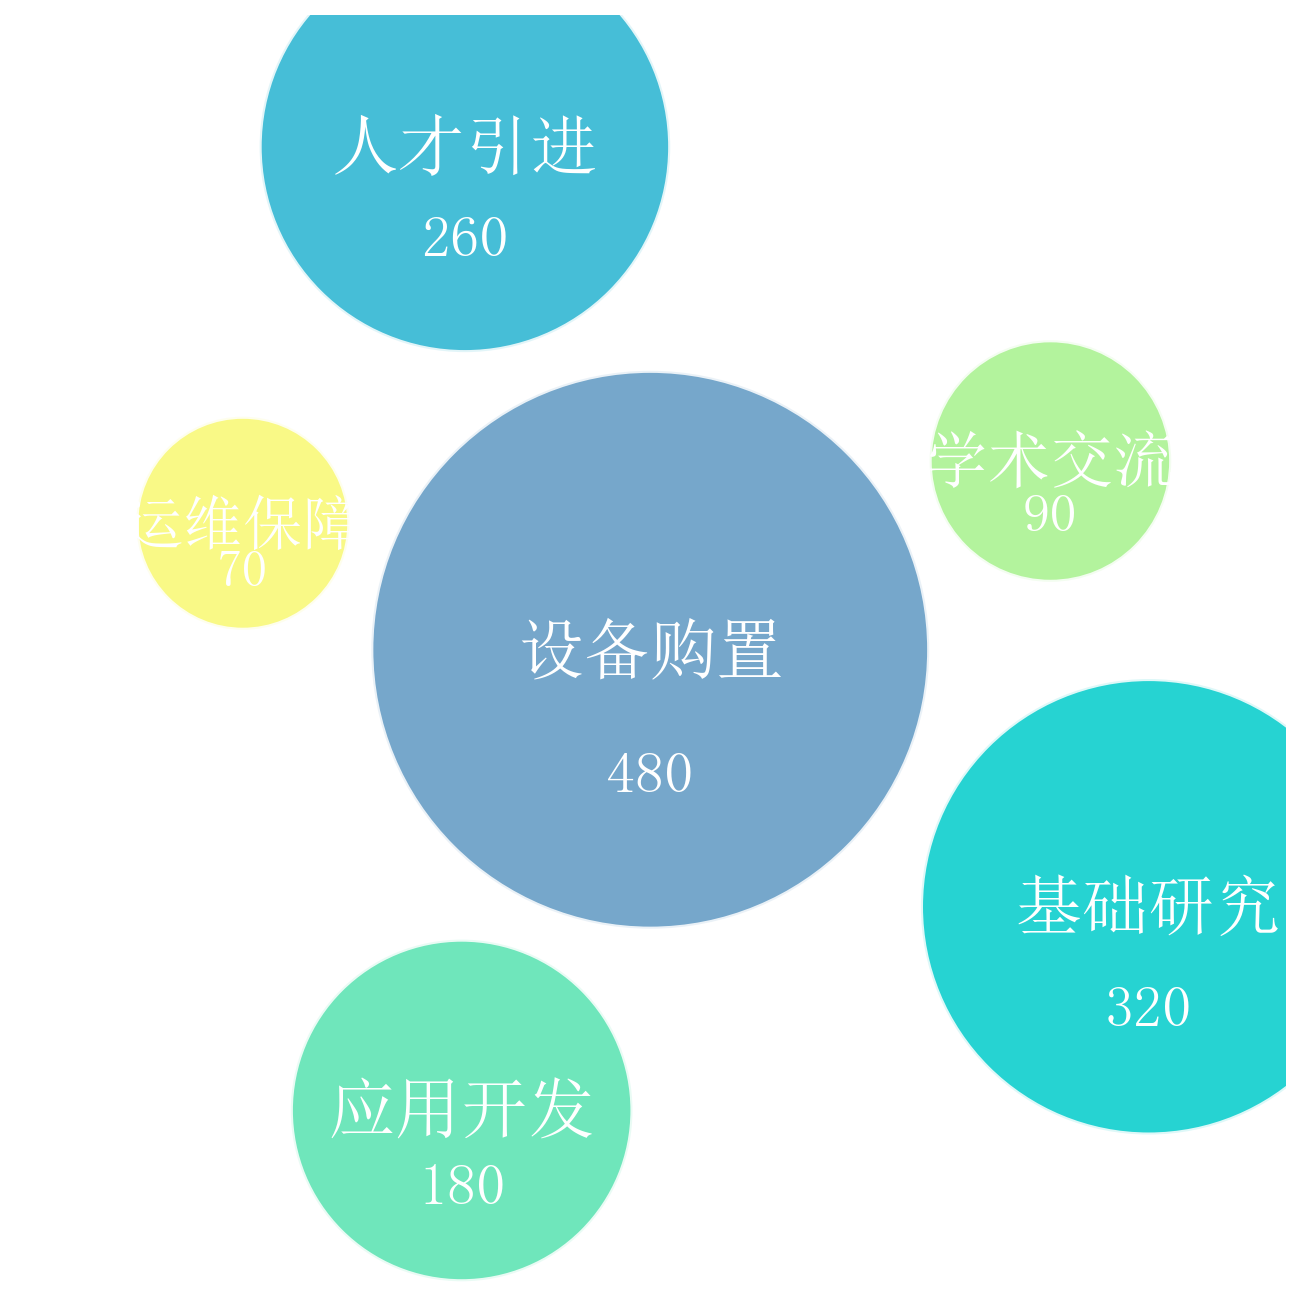
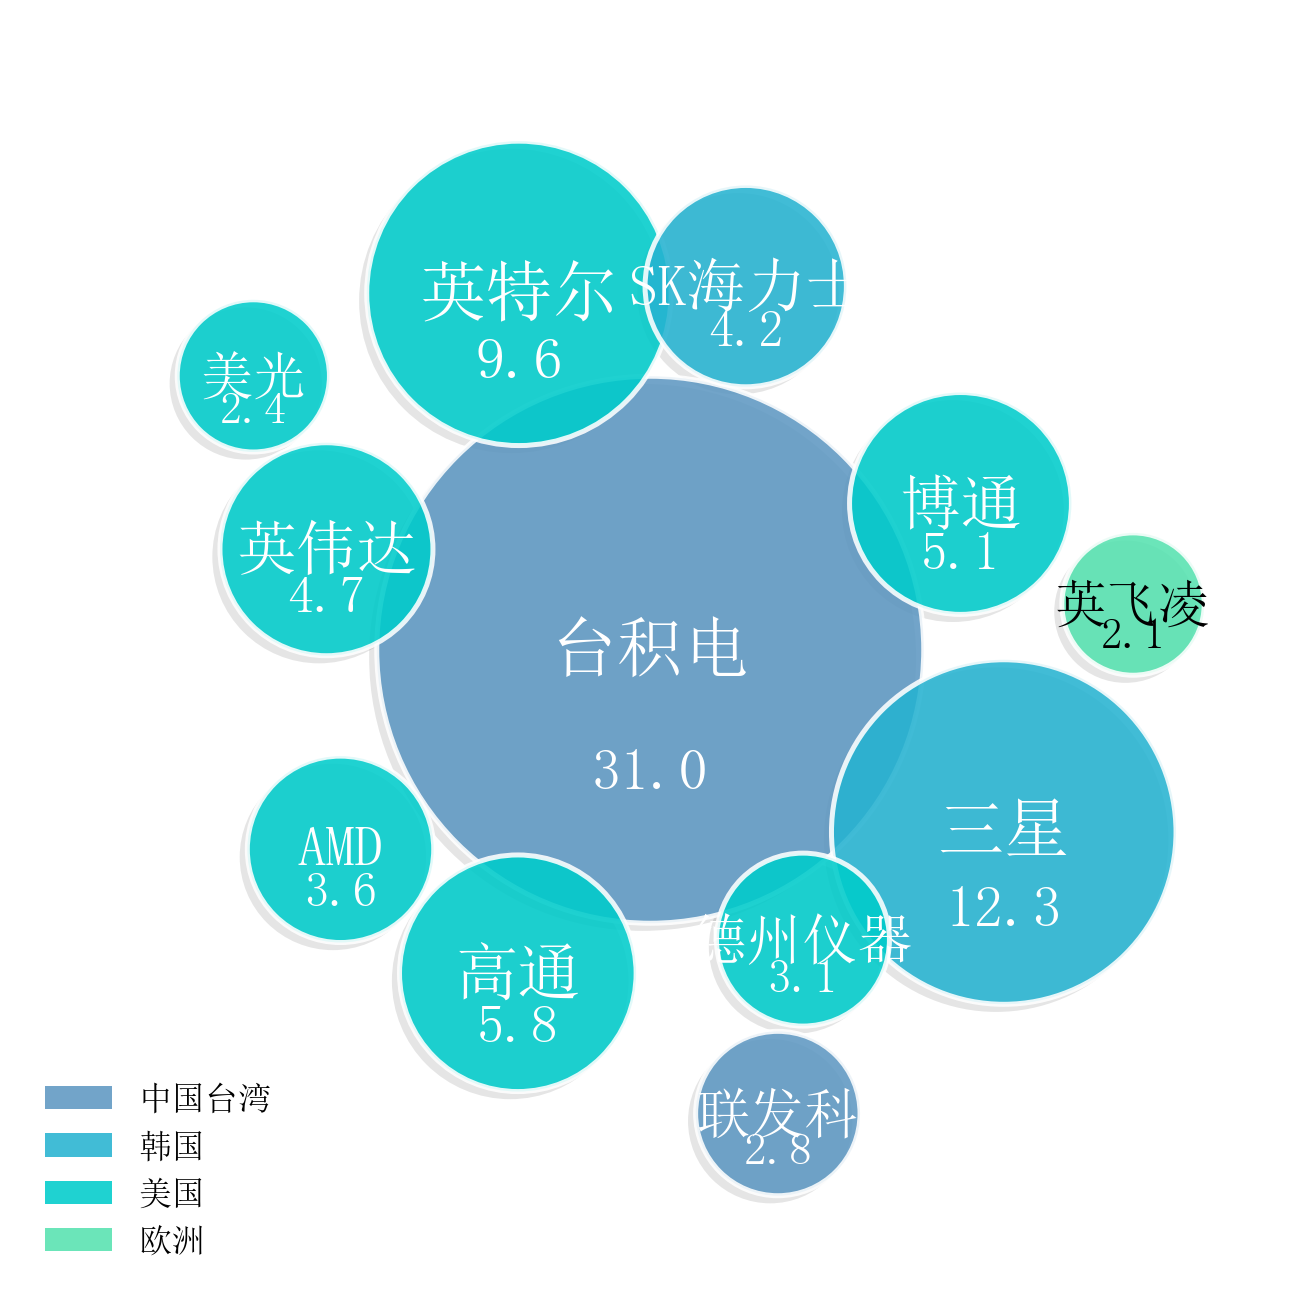
feat(bubble): 打包气泡升级 - color_by分组+图例/阴影层次/文字自动对比色/min_size_frac小泡可见

diff --git a/sciplot/_plots/advanced.py b/sciplot/_plots/advanced.py
@@ -451,14 +451,22 @@ def plot_bubble_heatmap(
     return PlotResult(fig, ax, metadata={"venue": venue, "palette": palette})
 
 
-def _pack_bubbles(sizes: np.ndarray, max_tries: int = 3000) -> Tuple[np.ndarray, np.ndarray]:
+def _pack_bubbles(
+    sizes: np.ndarray,
+    max_tries: int = 3000,
+    min_size_frac: float = 0.22,
+) -> Tuple[np.ndarray, np.ndarray]:
     """贪心圆形打包：按大小降序，沿黄金角螺旋放置并检测碰撞。
 
     返回 (positions, radii)，位置已归一化到 [-1, 1] 区间。
+    min_size_frac 保证最小气泡可见（相对最大气泡的半径下限）。
     """
     n = len(sizes)
     order = np.argsort(sizes)[::-1]
     radii = np.sqrt(sizes / float(np.max(sizes)))
+    # 小气泡半径下限：避免跨数量级数据时小类完全不可见
+    min_r = float(radii.max()) * min_size_frac
+    radii = np.maximum(radii, min_r)
 
     # 面积和决定整体尺度：让打包区域大致落在单位圆内
     total_area = float(np.sum(np.pi * radii**2))
@@ -507,14 +515,16 @@ def plot_packed_bubble(
     labels: List[str],
     sizes: np.ndarray,
     colors: Optional[List[str]] = None,
+    color_by: Optional[List[str]] = None,
     xlabel: str = "",
     ylabel: str = "",
     title: str = "",
-    alpha: float = 0.85,
+    alpha: float = 0.88,
     show_values: bool = True,
     fmt: str = ".0f",
     min_font: float = 6.0,
     max_font: float = 16.0,
+    min_size_frac: float = 0.22,
     venue: Optional[str] = None,
     palette: Optional[str] = None,
     lang: Optional[str] = None,
@@ -524,20 +534,23 @@ def plot_packed_bubble(
     绘制打包气泡图（Packed Bubble，圆面积编码数值的紧凑占比展示）
 
     圆形面积与数值成正比，按大小降序贪心打包（黄金角螺旋 + 碰撞检测），
-    适合展示占比/规模构成（如经费分配、品类份额）。
+    气泡带浅阴影与白色描边；文字依据底色亮度自动选黑/白保证对比度。
 
     参数:
-        labels     : 各项标签（等长）
-        sizes      : 各项数值（等长，>0）
-        colors     : 每项颜色；None 用当前配色循环
-        show_values: 是否在气泡内显示数值
-        fmt        : 数值格式
+        labels      : 各项标签（等长）
+        sizes       : 各项数值（等长，>0）
+        colors      : 每项颜色；None 用当前配色循环
+        color_by    : 类别标签（等长）；提供时按类别着色并生成图例
+        show_values : 是否在气泡内显示数值
+        fmt         : 数值格式
         min_font / max_font: 气泡内文字字号随面积缩放的范围
+        min_size_frac: 最小气泡半径相对最大气泡的比例（保证小类可见）
 
     示例:
         >>> fig, ax = sp.plot_packed_bubble(
         ...     ["计算", "存储", "网络", "人力", "运维"],
         ...     np.array([40, 25, 15, 12, 8]),
+        ...     color_by=["核心", "核心", "支撑", "支撑", "支撑"],
         ... )
         >>> sp.save(fig, "packed_bubble")
     """
@@ -562,34 +575,70 @@ def plot_packed_bubble(
         cycle = get_cycle_colors()
         colors = [cycle[i % len(cycle)] for i in range(len(labels))]
 
+    categorical_legend = None
+    if color_by is not None:
+        if len(color_by) != len(labels):
+            raise ValueError(
+                f"color_by 长度 ({len(color_by)}) 与 labels 长度 ({len(labels)}) 不一致"
+            )
+        # 类别优先：color_by 覆盖 colors 分配（按输入首次出现顺序）
+        unique_groups = list(dict.fromkeys(color_by))
+        cycle = get_cycle_colors()
+        group_map = {g: cycle[i % len(cycle)] for i, g in enumerate(unique_groups)}
+        colors = [group_map[g] for g in color_by]
+        categorical_legend = group_map
+    if not 0 < min_size_frac < 1:
+        raise ValueError(f"min_size_frac 必须在 (0, 1) 范围内，实际值: {min_size_frac!r}")
+
     effective_venue = apply_resolved_style(venue, palette, lang)
     fig, ax = new_figure(effective_venue)
 
-    pos, radii = _pack_bubbles(sizes_arr)
+    pos, radii = _pack_bubbles(sizes_arr, min_size_frac=min_size_frac)
     fontsize = plt.rcParams.get("font.size", 9)
+
+    from matplotlib.colors import to_rgb
 
     for i, (label, size) in enumerate(zip(labels, sizes_arr)):
         r = radii[i]
+        # 浅阴影（右下偏移的暗圆）
+        shadow = plt.Circle(
+            (pos[i][0] - 0.015, pos[i][1] - 0.015), r,
+            facecolor="#000000", alpha=0.10, edgecolor="none", zorder=0,
+        )
+        ax.add_patch(shadow)
         circle = plt.Circle(
             pos[i], r, facecolor=colors[i], alpha=alpha,
-            edgecolor="white", linewidth=1.0, **kwargs,
+            edgecolor="white", linewidth=1.2, zorder=1, **kwargs,
         )
         ax.add_patch(circle)
+        # 文字对比度：依据底色亮度选黑/白
+        rr, gg, bb = to_rgb(colors[i])
+        luminance = 0.299 * rr + 0.587 * gg + 0.114 * bb
+        text_color = "black" if luminance > 0.62 else "white"
         fs = max(min_font, min(max_font, fontsize * (0.7 + 1.3 * (r / max(radii)))))
         ax.text(
             pos[i][0], pos[i][1], label,
-            ha="center", va="center", fontsize=fs, color="white",
+            ha="center", va="center", fontsize=fs, color=text_color,
             fontweight="bold", zorder=3,
         )
         if show_values:
             ax.text(
                 pos[i][0], pos[i][1] - r * 0.45, f"{size:{fmt}}",
                 ha="center", va="center", fontsize=max(5, fs - 2),
-                color="white", zorder=3,
+                color=text_color, zorder=3,
             )
 
-    ax.set_xlim(-1.2, 1.2)
-    ax.set_ylim(-1.2, 1.2)
+    if categorical_legend is not None:
+        from matplotlib.patches import Patch
+
+        handles = [
+            Patch(facecolor=c, label=str(g), alpha=alpha)
+            for g, c in categorical_legend.items()
+        ]
+        ax.legend(handles=handles, loc="lower left", frameon=False, fontsize=8)
+
+    ax.set_xlim(-1.25, 1.25)
+    ax.set_ylim(-1.25, 1.25)
     ax.set_aspect("equal")
     ax.set_axis_off()
     if title:

diff --git a/tests/unit/test_packed_bubble.py b/tests/unit/test_packed_bubble.py
@@ -11,28 +11,30 @@ import sciplot as sp
 from sciplot._plots.advanced import _pack_bubbles
 
 
+def _bubble_circles(result):
+    """气泡圆（排除黑色阴影）。"""
+    from matplotlib.patches import Circle
+
+    return [
+        p for p in result.ax.patches
+        if isinstance(p, Circle) and np.asarray(p.get_facecolor())[:3].sum() > 0.01
+    ]
+
+
 def test_packed_bubble_basic(cleanup_figures):
     result = sp.plot_packed_bubble(
         ["计算", "存储", "网络", "人力", "运维"],
         np.array([40, 25, 15, 12, 8]),
     )
     assert result.fig is not None
-    # 5 个 Circle patch
-    from matplotlib.patches import Circle
-
-    circles = [p for p in result.ax.patches if isinstance(p, Circle)]
-    assert len(circles) == 5
+    # 5 个气泡 Circle（不含阴影）
+    assert len(_bubble_circles(result)) == 5
 
 
 def test_packed_bubble_area_proportional(cleanup_figures):
     """气泡面积与 sizes 成正比（半径与 sqrt(size) 成正比）。"""
     result = sp.plot_packed_bubble(["A", "B"], np.array([1.0, 4.0]))
-    from matplotlib.patches import Circle
-
-    circles = sorted(
-        (p for p in result.ax.patches if isinstance(p, Circle)),
-        key=lambda c: c.radius,
-    )
+    circles = sorted(_bubble_circles(result), key=lambda c: c.radius)
     # r_B / r_A == sqrt(4) == 2
     assert circles[1].radius == pytest.approx(2 * circles[0].radius, rel=0.05)
 
@@ -57,9 +59,8 @@ def test_packed_bubble_custom_colors(cleanup_figures):
         ["A", "B"], np.array([3.0, 2.0]),
         colors=["#E74C3C", "#3498DB"],
     )
-    from matplotlib.patches import Circle
-
-    facecolors = {np.asarray(p.get_facecolor())[:3].round(3).tobytes() for p in result.ax.patches}
+    facecolors = {np.asarray(p.get_facecolor())[:3].round(3).tobytes()
+                  for p in _bubble_circles(result)}
     assert len(facecolors) == 2
 
 
@@ -89,6 +90,38 @@ def test_packed_bubble_nonpositive_raises(cleanup_figures):
 def test_packed_bubble_nan_raises(cleanup_figures):
     with pytest.raises(ValueError, match="NaN 或 Inf"):
         sp.plot_packed_bubble(["A"], np.array([np.nan]))
+
+
+def test_packed_bubble_color_by_legend(cleanup_figures):
+    """color_by 类别分组生成图例。"""
+    result = sp.plot_packed_bubble(
+        ["A", "B", "C"], np.array([5.0, 3.0, 2.0]),
+        color_by=["核心", "核心", "支撑"],
+    )
+    legend = result.ax.get_legend()
+    assert legend is not None
+    texts = [t.get_text() for t in legend.get_texts()]
+    assert texts == ["核心", "支撑"]
+
+
+def test_packed_bubble_min_size_frac(cleanup_figures):
+    """min_size_frac 保证小气泡可见。"""
+    result = sp.plot_packed_bubble(
+        ["A", "B"], np.array([100.0, 1.0]), min_size_frac=0.4
+    )
+    circles = sorted(_bubble_circles(result), key=lambda c: c.radius)
+    # 小气泡半径 >= 大气泡的 40%
+    assert circles[0].radius >= 0.4 * circles[1].radius - 1e-9
+
+
+def test_packed_bubble_bad_min_size_frac_raises(cleanup_figures):
+    with pytest.raises(ValueError, match="min_size_frac"):
+        sp.plot_packed_bubble(["A"], np.array([1.0]), min_size_frac=0.0)
+
+
+def test_packed_bubble_color_by_mismatch_raises(cleanup_figures):
+    with pytest.raises(ValueError, match="color_by"):
+        sp.plot_packed_bubble(["A", "B"], np.array([1.0, 2.0]), color_by=["x"])
 
 
 def test_packed_bubble_alias_and_export(cleanup_figures):

diff --git a/showcase/23_packed_bubble.py b/showcase/23_packed_bubble.py
@@ -1,27 +1,35 @@
 """
 23_packed_bubble.py — 打包气泡图
 
-展示 plot_packed_bubble()：科研经费分配构成。
-场景：某重点实验室年度经费按方向分配（万元）。
+展示 plot_packed_bubble()：全球半导体市场份额构成（2024，%）。
+颜色=公司总部所在国/地区分组，面积=市场份额，展示产业格局。
 """
 
 import numpy as np
 import sciplot as sp
 
 # ── 数据生成 ──────────────────────────────────────────────────
-directions = ["设备购置", "人才引进", "基础研究", "应用开发", "学术交流", "运维保障"]
-budgets = np.array([480, 260, 320, 180, 90, 70])
+companies = [
+    "台积电", "三星", "英特尔", "高通", "博通", "英伟达",
+    "SK海力士", "AMD", "德州仪器", "联发科", "美光", "英飞凌",
+]
+shares = np.array([31.0, 12.3, 9.6, 5.8, 5.1, 4.7,
+                   4.2, 3.6, 3.1, 2.8, 2.4, 2.1])
+hq = [
+    "中国台湾", "韩国", "美国", "美国", "美国", "美国",
+    "韩国", "美国", "美国", "中国台湾", "美国", "欧洲",
+]
 
 # ── 绘图 ──────────────────────────────────────────────────────
 sp.setup_style("presentation", "ocean", lang="zh")
 
 fig, ax = sp.plot_packed_bubble(
-    directions,
-    budgets,
-    xlabel="",
-    ylabel="",
+    companies,
+    shares,
+    color_by=hq,
     show_values=True,
-    fmt=".0f",
+    fmt=".1f",
+    min_size_frac=0.25,
 )
 
 # ── 保存 ──────────────────────────────────────────────────────
